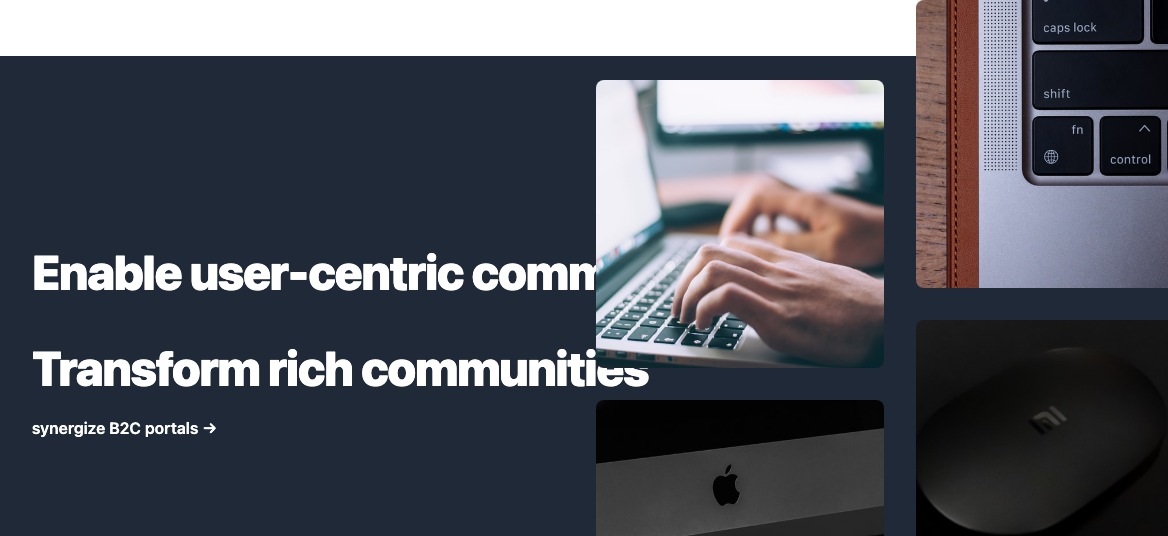
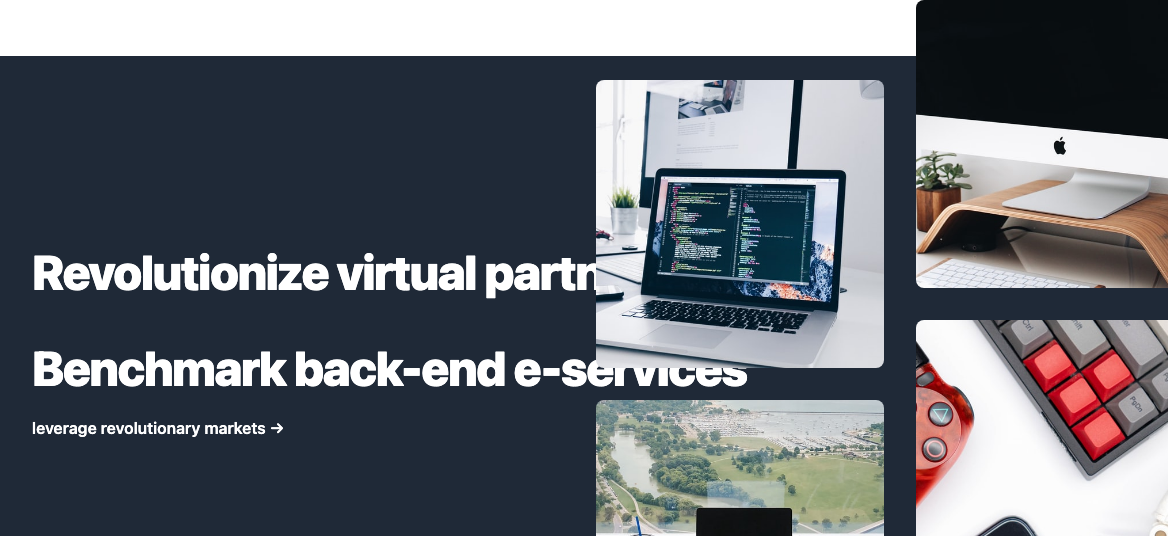
adding product page

diff --git a/.slicemachine/assets/slices/PromoSectionFullWidthWithOverlappingImageTiles/index.stories.js b/.slicemachine/assets/slices/PromoSectionFullWidthWithOverlappingImageTiles/index.stories.js
@@ -5,5 +5,5 @@ export default {
 }
 
 
-export const _DefaultSlice = () => <MyComponent slice={{"variation":"default-slice","name":"Default slice","slice_type":"promo_section_full_width_with_overlapping_image_tiles","items":[],"primary":{"title1":[{"type":"heading1","text":"Enable user-centric communities","spans":[]}],"title2":[{"type":"heading1","text":"Transform rich communities","spans":[]}],"image1":{"dimensions":{"width":900,"height":500},"alt":"Placeholder image","copyright":null,"url":"https://images.unsplash.com/photo-1486312338219-ce68d2c6f44d?w=900&h=500&fit=crop"},"image2":{"dimensions":{"width":900,"height":500},"alt":"Placeholder image","copyright":null,"url":"https://images.unsplash.com/photo-1579931794097-0ad001e51edb?w=900&h=500&fit=crop"},"image3":{"dimensions":{"width":900,"height":500},"alt":"Placeholder image","copyright":null,"url":"https://images.unsplash.com/photo-1607582278043-57198ac8da43?w=900&h=500&fit=crop"},"image4":{"dimensions":{"width":900,"height":500},"alt":"Placeholder image","copyright":null,"url":"https://images.unsplash.com/photo-1600804931749-2da4ce26c869?w=900&h=500&fit=crop"},"image5":{"dimensions":{"width":900,"height":500},"alt":"Placeholder image","copyright":null,"url":"https://images.unsplash.com/photo-1607582278038-6bebbd4d7b72?w=900&h=500&fit=crop"},"image6":{"dimensions":{"width":900,"height":500},"alt":"Placeholder image","copyright":null,"url":"https://images.unsplash.com/photo-1493119508027-2b584f234d6c?w=900&h=500&fit=crop"},"ctaLink":{"link_type":"Web","url":"http://twitter.com"},"linkLabel":"synergize B2C portals"},"id":"_DefaultSlice"}} />
+export const _DefaultSlice = () => <MyComponent slice={{"variation":"default-slice","name":"Default slice","slice_type":"promo_section_full_width_with_overlapping_image_tiles","items":[],"primary":{"title1":[{"type":"heading1","text":"Revolutionize virtual partnerships","spans":[]}],"title2":[{"type":"heading1","text":"Benchmark back-end e-services","spans":[]}],"image1":{"dimensions":{"width":900,"height":500},"alt":"Placeholder image","copyright":null,"url":"https://images.unsplash.com/photo-1498050108023-c5249f4df085?w=900&h=500&fit=crop"},"image2":{"dimensions":{"width":900,"height":500},"alt":"Placeholder image","copyright":null,"url":"https://images.unsplash.com/photo-1531771686035-25f47595c87a?w=900&h=500&fit=crop"},"image3":{"dimensions":{"width":900,"height":500},"alt":"Placeholder image","copyright":null,"url":"https://images.unsplash.com/photo-1494173853739-c21f58b16055?w=900&h=500&fit=crop"},"image4":{"dimensions":{"width":900,"height":500},"alt":"Placeholder image","copyright":null,"url":"https://images.unsplash.com/photo-1587653915936-5623ea0b949a?w=900&h=500&fit=crop"},"image5":{"dimensions":{"width":900,"height":500},"alt":"Placeholder image","copyright":null,"url":"https://images.unsplash.com/photo-1589321578146-4c1ba445cc88?w=900&h=500&fit=crop"},"image6":{"dimensions":{"width":900,"height":500},"alt":"Placeholder image","copyright":null,"url":"https://images.unsplash.com/photo-1525547719571-a2d4ac8945e2?w=900&h=500&fit=crop"},"ctaLink":{"link_type":"Web","url":"https://prismic.io"},"linkLabel":"leverage revolutionary markets"},"id":"_DefaultSlice"}} />
 _DefaultSlice.storyName = 'Default slice'

diff --git a/slices/PromoSectionFullWidthWithOverlappingImageTiles/index.js b/slices/PromoSectionFullWidthWithOverlappingImageTiles/index.js
@@ -12,9 +12,9 @@ const PromoSectionFullWidthWithOverlappingImageTiles = ({ slice }) => (
             <div className="relative pt-48 pb-16 sm:pb-24">
               <div>
                 <h2 id="sale-heading" className="text-4xl font-extrabold tracking-tight text-white md:text-5xl">
-                  {RichText.render(slice.primary.title1)}
+                  {RichText.asText(slice.primary.title1)}
                   <br />
-                  {RichText.render(slice.primary.title2)}
+                  {RichText.asText(slice.primary.title2)}
                 </h2>
                 <div className="mt-6 text-base">
                   <a href={Link.url(slice.primary.ctaLink)} className="font-semibold text-white">
